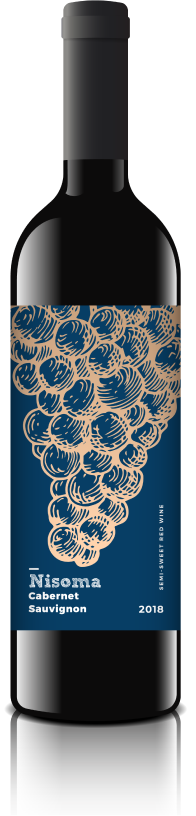
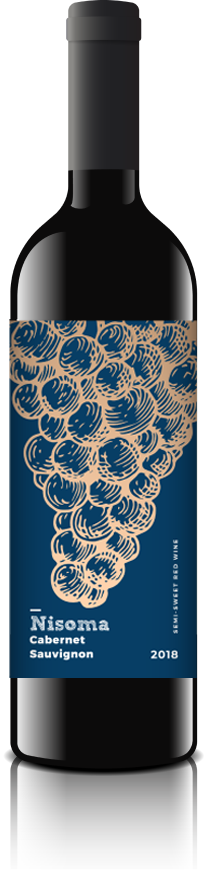
Arreglo tamaño de imagenes y posicionamiento

diff --git a/src/components/WineDetail/styles.scss b/src/components/WineDetail/styles.scss
@@ -54,7 +54,14 @@
             max-width: 100%;
             @include media(md) {
                 position: absolute;
-            }  
+                top: 50px;
+            }
+            @include media(lg) {
+                top: 105px;
+            }
+            @include media(xl) {
+                top: -40px;
+            }
         }
     }
 
